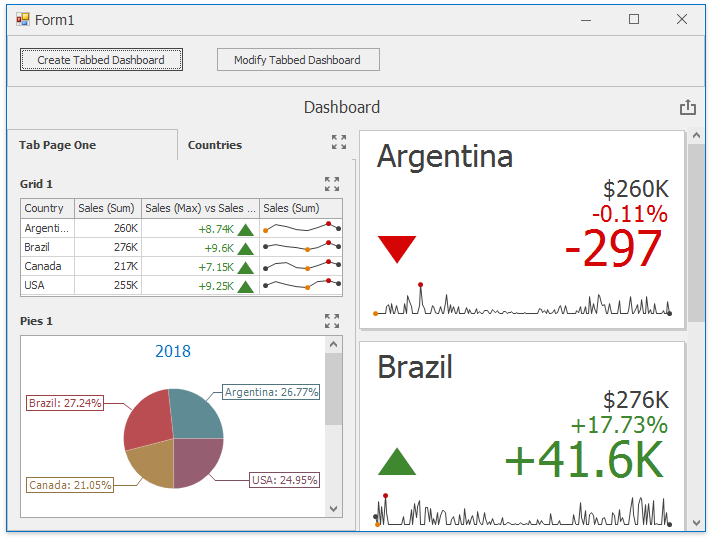
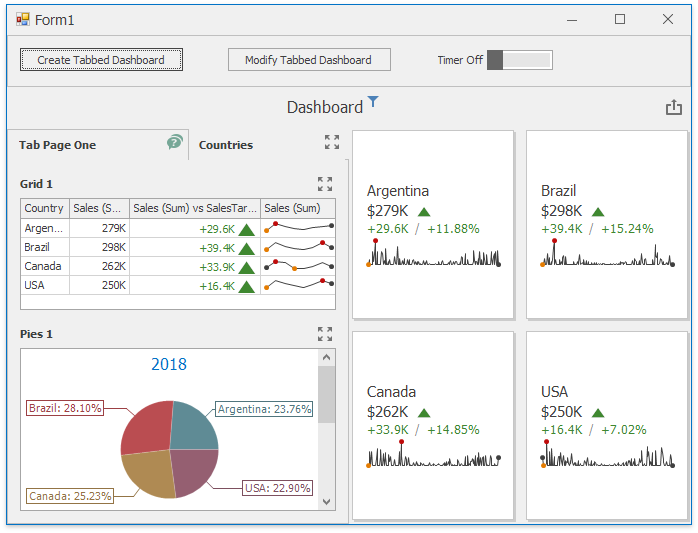
Timer and custom buttons

diff --git a/CS/TabSupportExample/Form1.cs b/CS/TabSupportExample/Form1.cs
@@ -1,38 +1,21 @@
 using DevExpress.DashboardCommon;
 using DevExpress.DashboardWin;
+using DevExpress.XtraEditors;
 using System;
+using System.Drawing;
 using System.Windows.Forms;
 
 namespace TabSupportExample
 {
     public partial class Form1 : DevExpress.XtraEditors.XtraForm
     {
+        private Timer tabTimer = new Timer();
+        string  timedTabContainerName;
         public Form1()
         {
             InitializeComponent();
+            dashboardViewer1.CustomizeDashboardItemCaption += DashboardViewer1_CustomizeDashboardItemCaption;
             dashboardViewer1.Dashboard = CreateSimpleDashboard();
-        }
-
-        private Dashboard CreateSimpleDashboard()
-        {
-            Dashboard dashboard = new Dashboard();
-            DashboardObjectDataSource dataSource = new DashboardObjectDataSource(DataGenerator.GenerateTestData());
-            dashboard.DataSources.Add(dataSource);
-
-            GridDashboardItem gridItem = new GridDashboardItem() { ComponentName = "grid1" };
-            gridItem.DataSource = dataSource;
-            gridItem.Columns.Add(new GridDimensionColumn(new Dimension("Country")));
-            gridItem.Columns.Add(new GridMeasureColumn(new Measure("Sales")));
-
-            PieDashboardItem pieItem = new PieDashboardItem() { ComponentName = "pie1" };
-            pieItem.DataSource = dataSource;
-            pieItem.Values.Add(new Measure("Sales"));
-            pieItem.Arguments.Add(new Dimension("Country"));
-
-            dashboard.Items.AddRange(gridItem, pieItem);
-
-            dashboard.SaveToXml("test_dashboard.xml");
-            return dashboard;
         }
 
         private void btnCreate_Click(object sender, EventArgs e)
@@ -57,7 +40,10 @@ namespace TabSupportExample
 
             dashboard.Items.Add(tabContainer);
 
+            dashboard.SaveToXml("test_tab_dashboard.xml");
+
             dashboardViewer1.Dashboard = dashboard;
+            toggleSwitchTimer.Enabled = true;
         }
 
         private void btnModify_Click(object sender, EventArgs e)
@@ -73,7 +59,67 @@ namespace TabSupportExample
                     ((PieDashboardItem)item).PieType = PieType.Donut;
                 }
             });
-
         }
+
+
+        private void TabTimer_Tick(object sender, EventArgs e)
+        {
+            if (timedTabContainerName != null)
+            {
+                int selectedIndex = dashboardViewer1.GetSelectedTabPageIndex(timedTabContainerName);
+                int pageCount = ((TabContainerDashboardItem)dashboardViewer1.Dashboard.Items[timedTabContainerName]).TabPages.Count;
+                dashboardViewer1.SetSelectedTabPage(timedTabContainerName, ++selectedIndex % pageCount);
+            }
+        }
+
+        private void toggleSwitchTimer_Toggled(object sender, EventArgs e)
+        {
+            if (((ToggleSwitch)sender).IsOn)
+            {
+                timedTabContainerName = dashboardViewer1.Dashboard.Items.FindFirst(x => x is TabContainerDashboardItem).ComponentName;
+                tabTimer.Interval = 2000;
+                tabTimer.Tick += TabTimer_Tick;
+                tabTimer.Start();
+            }
+            else
+                tabTimer.Stop();
+        }
+
+        private Dashboard CreateSimpleDashboard()
+        {
+            Dashboard dashboard = new Dashboard();
+            DashboardObjectDataSource dataSource = new DashboardObjectDataSource(DataGenerator.GenerateTestData());
+            dashboard.DataSources.Add(dataSource);
+
+            GridDashboardItem gridItem = new GridDashboardItem() { ComponentName = "grid1" };
+            gridItem.DataSource = dataSource;
+            gridItem.Columns.Add(new GridDimensionColumn(new Dimension("Country")));
+            gridItem.Columns.Add(new GridMeasureColumn(new Measure("Sales")));
+
+            PieDashboardItem pieItem = new PieDashboardItem() { ComponentName = "pie1" };
+            pieItem.DataSource = dataSource;
+            pieItem.Values.Add(new Measure("Sales"));
+            pieItem.Arguments.Add(new Dimension("Country"));
+
+            dashboard.Items.AddRange(gridItem, pieItem);
+
+            dashboard.SaveToXml("test_dashboard.xml");
+            return dashboard;
+        }
+
+        private void DashboardViewer1_CustomizeDashboardItemCaption(object sender, CustomizeDashboardItemCaptionEventArgs e)
+        {
+            Dashboard dashboard = ((DashboardViewer)sender).Dashboard;
+
+            if (e.DashboardItemName == "page1")
+                e.Items.Add(new DashboardToolbarItem("",
+                new Action<DashboardToolbarItemClickEventArgs>((args) =>
+                {
+                    System.Diagnostics.Process.Start("https://www.devexpress.com/");
+                }))
+                { ButtonImage = Image.FromFile("Support_16x16.png") });
+        }
+
+
     }
 }

diff --git a/CS/TabSupportExample/Form1.Designer.cs b/CS/TabSupportExample/Form1.Designer.cs
@@ -33,13 +33,16 @@
             this.btnModify = new DevExpress.XtraEditors.SimpleButton();
             this.btnCreate = new DevExpress.XtraEditors.SimpleButton();
             this.dashboardViewer1 = new DevExpress.DashboardWin.DashboardViewer(this.components);
+            this.toggleSwitchTimer = new DevExpress.XtraEditors.ToggleSwitch();
             ((System.ComponentModel.ISupportInitialize)(this.panelControl1)).BeginInit();
             this.panelControl1.SuspendLayout();
             ((System.ComponentModel.ISupportInitialize)(this.dashboardViewer1)).BeginInit();
+            ((System.ComponentModel.ISupportInitialize)(this.toggleSwitchTimer.Properties)).BeginInit();
             this.SuspendLayout();
             // 
             // panelControl1
             // 
+            this.panelControl1.Controls.Add(this.toggleSwitchTimer);
             this.panelControl1.Controls.Add(this.btnModify);
             this.panelControl1.Controls.Add(this.btnCreate);
             this.panelControl1.Dock = System.Windows.Forms.DockStyle.Top;
@@ -50,7 +53,7 @@
             // 
             // btnModify
             // 
-            this.btnModify.Location = new System.Drawing.Point(210, 13);
+            this.btnModify.Location = new System.Drawing.Point(221, 13);
             this.btnModify.Name = "btnModify";
             this.btnModify.Size = new System.Drawing.Size(163, 23);
             this.btnModify.TabIndex = 1;
@@ -76,6 +79,19 @@
             this.dashboardViewer1.Size = new System.Drawing.Size(684, 437);
             this.dashboardViewer1.TabIndex = 0;
             // 
+            // toggleSwitchTimer
+            // 
+            this.toggleSwitchTimer.Enabled = false;
+            this.toggleSwitchTimer.Location = new System.Drawing.Point(429, 13);
+            this.toggleSwitchTimer.Name = "toggleSwitchTimer";
+            this.toggleSwitchTimer.Properties.AutoWidth = true;
+            this.toggleSwitchTimer.Properties.GlyphAlignment = DevExpress.Utils.HorzAlignment.Far;
+            this.toggleSwitchTimer.Properties.OffText = "Timer Off";
+            this.toggleSwitchTimer.Properties.OnText = "Timer On";
+            this.toggleSwitchTimer.Size = new System.Drawing.Size(119, 24);
+            this.toggleSwitchTimer.TabIndex = 3;
+            this.toggleSwitchTimer.Toggled += new System.EventHandler(this.toggleSwitchTimer_Toggled);
+            // 
             // Form1
             // 
             this.AutoScaleDimensions = new System.Drawing.SizeF(6F, 13F);
@@ -87,7 +103,9 @@
             this.Text = "Form1";
             ((System.ComponentModel.ISupportInitialize)(this.panelControl1)).EndInit();
             this.panelControl1.ResumeLayout(false);
+            this.panelControl1.PerformLayout();
             ((System.ComponentModel.ISupportInitialize)(this.dashboardViewer1)).EndInit();
+            ((System.ComponentModel.ISupportInitialize)(this.toggleSwitchTimer.Properties)).EndInit();
             this.ResumeLayout(false);
 
         }
@@ -98,6 +116,7 @@
         private DevExpress.XtraEditors.PanelControl panelControl1;
         private DevExpress.XtraEditors.SimpleButton btnCreate;
         private DevExpress.XtraEditors.SimpleButton btnModify;
+        private DevExpress.XtraEditors.ToggleSwitch toggleSwitchTimer;
     }
 }
 

diff --git a/CS/TabSupportExample/DataGenerator.cs b/CS/TabSupportExample/DataGenerator.cs
@@ -1,13 +1,14 @@
 using System;
 using System.Collections.Generic;
+using System.IO;
 
 namespace TabSupportExample
 {
     public static class DataGenerator
     {
-        public static object GenerateTestData()
+        public static List<DataRow> GenerateTestData()
         {
-            IList<DataRow> data = new List<DataRow>();
+            List<DataRow> data = new List<DataRow>();
             Random rand = new Random(DateTime.Now.Second);
 
             var countries = new string[] { "USA", "Canada", "Argentina", "Brazil" };
@@ -24,12 +25,29 @@ namespace TabSupportExample
             }
             return data;
         }
+
+        public static void SaveTestData()
+        {
+            List<DataRow> data = GenerateTestData();
+            using (var stream = new StreamWriter("data.csv") { NewLine = "\n" })
+            {
+                stream.WriteLine("Country,Sales,SalesTarget,SalesDate");
+                foreach (var datarow in data)
+                    stream.WriteLine(datarow.ToCsv());
+            }
+        }
+
     }
+
     public class DataRow
     {
         public string Country { get; set; }
         public double Sales { get; set; }
         public double SalesTarget { get; set; }
         public DateTime SalesDate { get; set; }
+
+        public string ToCsv() {
+            return String.Join(",", this.Country, this.Sales.ToString(), this.SalesTarget.ToString(), this.SalesDate.ToString());
+        }
     }
 }

diff --git a/CS/TabSupportExample/DashboardItemGenerator.cs b/CS/TabSupportExample/DashboardItemGenerator.cs
@@ -21,6 +21,7 @@ namespace TabSupportExample
             Measure targetValue = new Measure("SalesTarget");
             targetValue.NumericFormat.FormatType = DataItemNumericFormatType.Currency;
             Card card = new Card(actualValue, targetValue);
+            card.LayoutTemplate = new CardCompactLayoutTemplate();
             cardItem.Cards.Add(card);
 
             return cardItem;
@@ -55,8 +56,7 @@ namespace TabSupportExample
 
             gridItem.Columns.Add(new GridDimensionColumn(new Dimension("Country")));
             gridItem.Columns.Add(new GridMeasureColumn(new Measure("Sales")));
-            gridItem.Columns.Add(new GridDeltaColumn(new Measure("Sales", SummaryType.Max),
-                                                 new Measure("Sales", SummaryType.Min)));
+            gridItem.Columns.Add(new GridDeltaColumn(new Measure("Sales"), new Measure("SalesTarget")));
             gridItem.Columns.Add(new GridSparklineColumn(new Measure("Sales")));
             gridItem.SparklineArgument = new Dimension("SalesDate", DateTimeGroupInterval.MonthYear);
 
